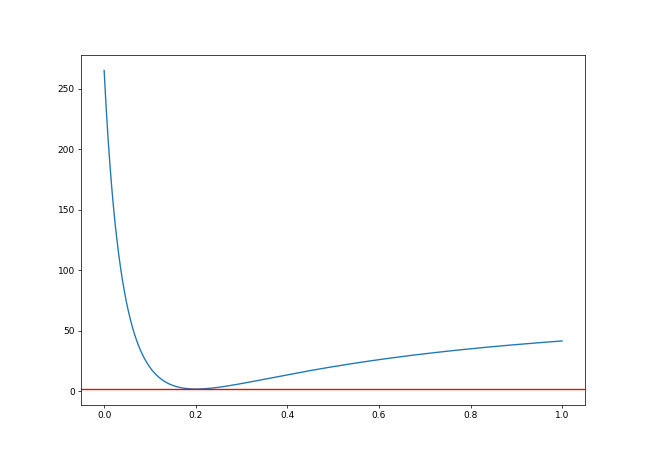
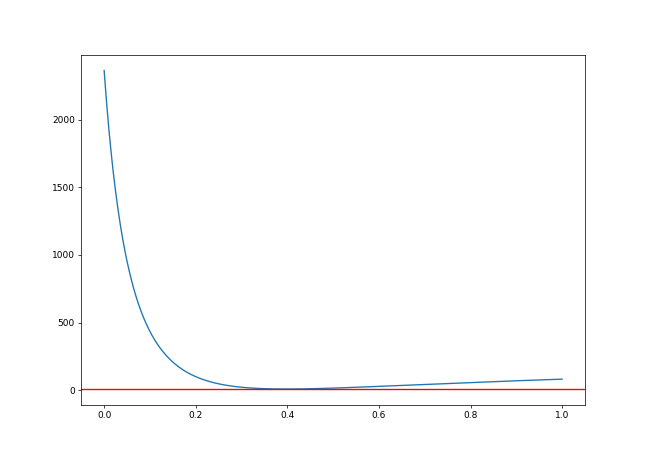
there is a problem when the data is already normalised to Fe (Fe=1.0). i should check it

diff --git a/snratio/gui/main_gui.py b/snratio/gui/main_gui.py
@@ -1,4 +1,5 @@
 import os
+from snratio.gui.qt_snratio import Ui_MainWindow
 from snratio.lib.main import Calculator
 from snratio.lib.utils import check_and_create_directory
 
@@ -7,8 +8,6 @@ from matplotlib.backends.backend_qt5agg import FigureCanvasQTAgg as FigureCanvas
 from PySide2 import QtWidgets
 from PySide2 import QtCore
 QtCore.QCoreApplication.setAttribute(QtCore.Qt.AA_ShareOpenGLContexts)
-
-from snratio.gui.qt_snratio import Ui_MainWindow
 
 
 class MainWindow(QtWidgets.QMainWindow, Ui_MainWindow):
@@ -105,7 +104,7 @@ class MainWindow(QtWidgets.QMainWindow, Ui_MainWindow):
         if self.fit_figure is None:
             self.fit_figure = self.calculator.plots.get_fit_plot()
 
-        self.fit_figure.set_size_inches(10,7)
+        self.fit_figure.set_size_inches(10, 7)
         self.fit_figure.savefig(os.path.join(path, "Figure_Fit.png"))
 
         if self.likelihood_figure is None:
@@ -202,7 +201,6 @@ class MainWindow(QtWidgets.QMainWindow, Ui_MainWindow):
         modified_text = "term$ {}".format(text)
         self.plainTextEdit_terminal.appendPlainText(modified_text)
         self.repaint()
-
 
 
 """

diff --git a/snratio/lib/table.py b/snratio/lib/table.py
@@ -38,7 +38,7 @@ class Data(Reader):
         self.ref_element = ref_element
 
         if "element" == str(self.data.iloc[0, 0]).lower():
-            self.data.columns = self.data.iloc[0,:]
+            self.data.columns = self.data.iloc[0, :]
             self.data = self.data.iloc[1:]
         else:
             self.set_columns(["Element", "Abund", "AbundError"])
@@ -67,7 +67,12 @@ class Data(Reader):
 
                 self.data[column_name_ratio] = normalised_ratio
                 self.data[column_name_ratio_err] = normalised_ratio_err
+            else:
+                column_name_ratio = "{}_normalised_abund".format(self.ref_element)
+                column_name_ratio_err = "{}_normalised_abund_err".format(self.ref_element)
 
+                self.data[column_name_ratio] = self.data["Abund"]
+                self.data[column_name_ratio_err] = self.data["AbundError"]
         else:
             column_name_ratio = "{}_normalised_abund".format(self.ref_element)
             column_name_ratio_err = "{}_normalised_abund_err".format(self.ref_element)

diff --git a/snratio/lib/info.py b/snratio/lib/info.py
@@ -15,7 +15,7 @@ class Paths:
     }
 
     cc = {
-        #"nomoto_2013_0.0": "snratio/data/yields/cc/nomoto_2013/Nomoto_2013_z_0.txt",
+        # "nomoto_2013_0.0": "snratio/data/yields/cc/nomoto_2013/Nomoto_2013_z_0.txt",
         "nomoto_2013_0.001": "snratio/data/yields/cc/nomoto_2013/Nomoto_2013_z_0_001.txt",
         "nomoto_2013_0.004": "snratio/data/yields/cc/nomoto_2013/Nomoto_2013_z_0_004.txt",
         "nomoto_2013_0.008": "snratio/data/yields/cc/nomoto_2013/Nomoto_2013_z_0_008.txt",
@@ -71,7 +71,7 @@ class Keywords:
     }
 
     cc_valid_abundances = {
-        #"nomoto_2013": ["0.0", "0.001", "0.004", "0.008", "0.02", "0.05"],
+        # "nomoto_2013": ["0.0", "0.001", "0.004", "0.008", "0.02", "0.05"],
         "nomoto_2013": ["0.001", "0.004", "0.008", "0.02", "0.05"],
         "nomoto_2006": ["0.0", "0.001", "0.004", "0.02"],
         "tsujimoto": ["0.0"]

diff --git a/snratio/lib/plots.py b/snratio/lib/plots.py
@@ -75,9 +75,9 @@ class Plots:
                      elinewidth=2.5)
         ax.set_facecolor("lightgrey")
 
-        ax.bar(self.table["Element"], contribution_Ia, 0.3, label="SNIa", color="blue",
+        ax.bar(self.table["Element"], contribution_Ia, 0.6, label="SNIa", color="blue",
                 alpha=0.5)
-        ax.bar(self.table["Element"], contribution_cc, 0.3, bottom=contribution_Ia, label="SNcc", color="green",
+        ax.bar(self.table["Element"], contribution_cc, 0.6, bottom=contribution_Ia, label="SNcc", color="green",
                 alpha=0.5)
         ax.fill_between(self.table["Element"], err_min, err_max, facecolor="red", alpha=0.5,
                          label="{} confidence interval\nred_chi2 = {:.2f} ({:.2f}/{})".format(

diff --git a/snratio/gui/qt_snratio.py b/snratio/gui/qt_snratio.py
@@ -1,7 +1,7 @@
 # -*- coding: utf-8 -*-
 
-# Form implementation generated from reading ui file 'snratio/gui/qt_snratio_test.ui',
-# licensing of 'snratio/gui/qt_snratio_test.ui' applies.
+# Form implementation generated from reading ui file 'snratio/gui/qt_snratio.ui',
+# licensing of 'snratio/gui/qt_snratio.ui' applies.
 #
 # Created: Thu Apr  9 20:54:32 2020
 #      by: pyside2-uic  running on PySide2 5.13.2
@@ -9,6 +9,7 @@
 # WARNING! All changes made in this file will be lost!
 
 from PySide2 import QtCore, QtGui, QtWidgets
+
 
 class Ui_MainWindow(object):
     def setupUi(self, MainWindow):

diff --git a/snratio/lib/stats.py b/snratio/lib/stats.py
@@ -40,6 +40,7 @@ class Stats:
 
         norm_abund_col = self.table["{}_normalised_abund".format(self.ref_element)]
         norm_abund_err_col = self.table["{}_normalised_abund_err".format(self.ref_element)]
+
         for i in self.table.index:
             c += ((contribution_list_sum[i] - norm_abund_col[i]) / norm_abund_err_col[i]) ** 2.0
         return c
